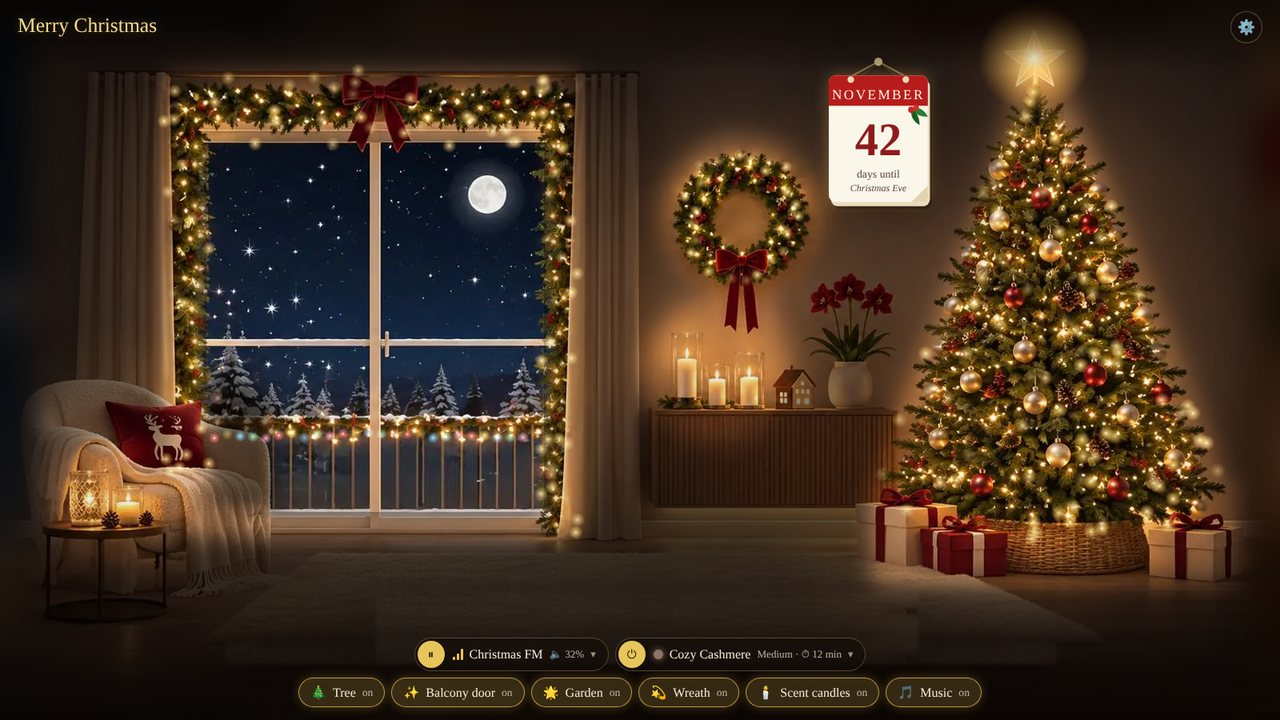
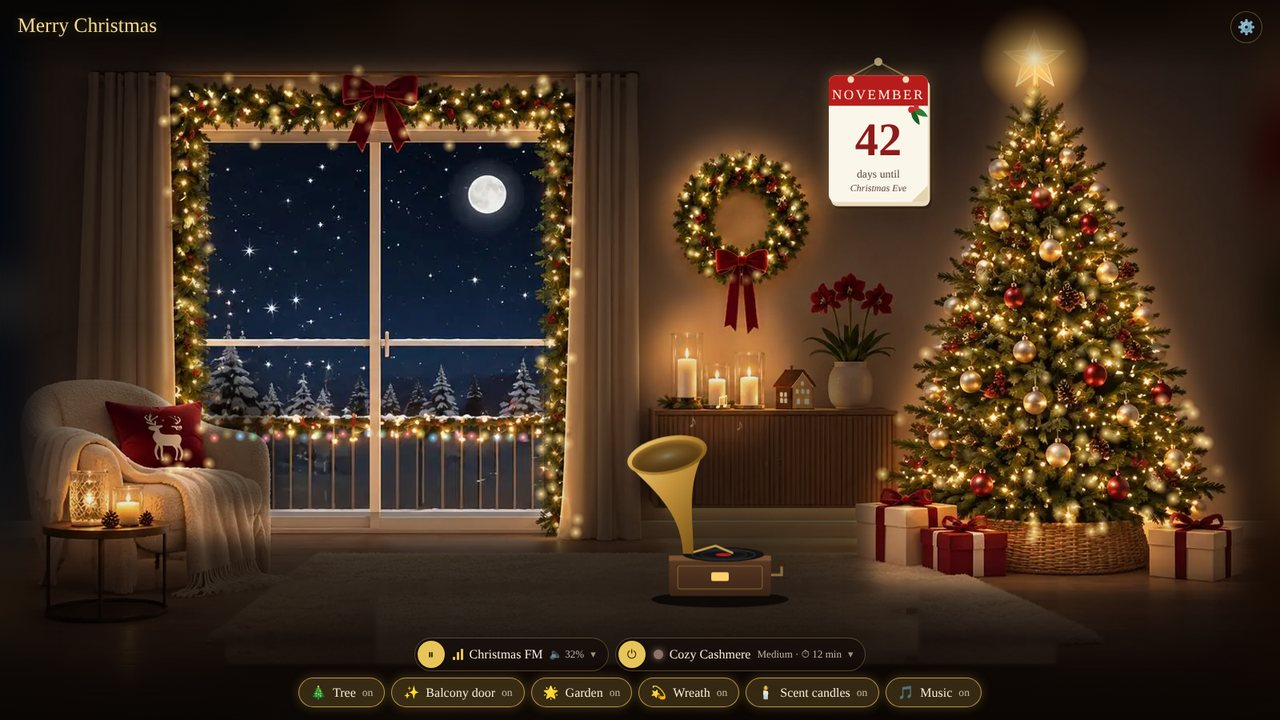
Modern style: gramophone in front of the sideboard
The music object now has its own tappable gramophone in the modern style,
dimmed while off and lit with notes while playing.

Claude-Session: https://claude.ai/code/session_01SdUQZpCtnnLuUWa4TiFC63

Changed region(s): [[0.4688, 0.5806, 0.625, 0.8556]]

diff --git a/christmas-room-card.js b/christmas-room-card.js
@@ -232,6 +232,20 @@ function wzInPoly(x, y, poly) {
   }
   return inside;
 }
+const WZ_GRAM = `
+      <ellipse cx="120" cy="584" rx="78" ry="9" fill="#000" opacity=".45"/>
+      <rect x="62" y="534" width="116" height="46" rx="4" fill="url(#gWood)"/>
+      <rect x="62" y="534" width="116" height="6" fill="#7a5233"/>
+      <rect x="72" y="546" width="96" height="26" rx="3" fill="none" stroke="#c9a24a" stroke-opacity=".45"/>
+      <rect x="110" y="553" width="20" height="10" rx="2" fill="#ffcf6b"/>
+      <path d="M178 556 h12 v-12" stroke="#8a6d3b" stroke-width="3" fill="none"/><circle cx="190" cy="543" r="3.5" fill="#3b2414"/>
+      <ellipse cx="124" cy="533" rx="46" ry="8" fill="#121212"/>
+      <ellipse cx="124" cy="533" rx="36" ry="6" fill="none" stroke="#333"/><ellipse cx="124" cy="533" rx="26" ry="4.4" fill="none" stroke="#2a2a2a"/>
+      <ellipse cx="124" cy="533" rx="9" ry="1.8" fill="#b71c1c"/>
+      <path d="M90 530 L115 523 L134 531" stroke="#c9a24a" stroke-width="2.5" fill="none" stroke-linecap="round"/>
+      <path d="M78 532 C76 482 40 456 15 430 L105 411 C80 452 90 492 90 532 Z" fill="url(#gBrass)"/>
+      <ellipse cx="60" cy="420" rx="46" ry="21" transform="rotate(-12 60 420)" fill="url(#gBrass)"/>
+      <ellipse cx="60" cy="421" rx="41" ry="17" transform="rotate(-12 60 421)" fill="url(#gHornIn)"/>`;
 function wzModernScene(img, calendarSvg) {
   const R = wzRng(1612);
   const pts = (n, fn) => { const out = []; for (let i = 0; i < 4000 && out.length < n; i++) { const p = fn(); if (p) out.push(p); } return out; };
@@ -250,6 +264,9 @@ function wzModernScene(img, calendarSvg) {
       <image id="wzImg" href="${wzEsc(img)}" x="0" y="0" width="1600" height="900" preserveAspectRatio="none"/>
       <radialGradient id="gWarm"><stop offset="0" stop-color="#fff6d6" stop-opacity="1"/><stop offset=".25" stop-color="#ffd27a" stop-opacity=".75"/><stop offset="1" stop-color="#ffb347" stop-opacity="0"/></radialGradient>
       ${GC.map((c, i) => `<radialGradient id="gL${i}"><stop offset="0" stop-color="#fff" stop-opacity=".95"/><stop offset=".3" stop-color="${c}" stop-opacity=".8"/><stop offset="1" stop-color="${c}" stop-opacity="0"/></radialGradient>`).join('')}
+      <linearGradient id="gWood" x1="0" y1="0" x2="0" y2="1"><stop offset="0" stop-color="#5a3a24"/><stop offset="1" stop-color="#3a2416"/></linearGradient>
+      <linearGradient id="gBrass" x1="0" y1="0" x2="1" y2="1"><stop offset="0" stop-color="#f6d986"/><stop offset=".45" stop-color="#c4923a"/><stop offset="1" stop-color="#6e4a12"/></linearGradient>
+      <radialGradient id="gHornIn" cx=".5" cy=".6" r=".6"><stop offset="0" stop-color="#1c1006"/><stop offset=".7" stop-color="#5a3c12"/><stop offset="1" stop-color="#a87a2c"/></radialGradient>
       <radialGradient id="gSpill"><stop offset="0" stop-color="#fff" stop-opacity=".55"/><stop offset="1" stop-color="#fff" stop-opacity="0"/></radialGradient>
       <filter id="fDim" color-interpolation-filters="sRGB">
         <feColorMatrix type="saturate" values="0.72"/>
@@ -276,6 +293,13 @@ function wzModernScene(img, calendarSvg) {
     <g class="lit lit-tree">${im('mask="url(#mTree)"')}</g>
     </g>
     <rect x="0" y="640" width="1600" height="262" fill="url(#gFloorShade)"/>
+    <g transform="translate(768,107) scale(1.1)">
+      <g filter="url(#fDim)">${WZ_GRAM}</g>
+      <g class="lit lit-music">${WZ_GRAM}<ellipse class="hornglow" cx="60" cy="421" rx="38" ry="15" transform="rotate(-12 60 421)" fill="url(#gWarm)"/></g>
+      <text class="note" x="84" y="388" font-size="20" style="animation-delay:0s">♪</text>
+      <text class="note" x="112" y="366" font-size="26" style="animation-delay:.8s">♫</text>
+      <text class="note" x="138" y="392" font-size="18" style="animation-delay:1.6s">♪</text>
+    </g>
     <g>${tree.map((p) => glow('tglow', p, 10)).join('')}${door.map((p) => glow('dglow', p, 9)).join('')}${wreath.map((p) => glow('kglow', p, 8)).join('')}${rail.map((p, i) => glow('gglow', p, 7, 'gL' + (i % GC.length))).join('')}</g>
     <circle class="starglow" cx="1293" cy="72" r="70" fill="url(#gWarm)"/>
     <g transform="translate(${WZM.calendar[0]},${WZM.calendar[1]}) scale(1.72)">${calendarSvg}</g>
@@ -284,7 +308,7 @@ function wzModernScene(img, calendarSvg) {
     <rect class="hit" data-k="garden" x="${ix1}" y="${iy1}" width="${ix2 - ix1}" height="${iy2 - iy1}"/>
     <circle class="hit" data-k="wreath" cx="${wx}" cy="${wy + 20}" r="${wr + 30}"/>
     ${WZM.candles.map(([x, y, rr]) => `<circle class="hit" data-k="candles" cx="${x}" cy="${y}" r="${rr}"/>`).join('')}
-    <rect class="hit" data-k="music" x="960" y="440" width="70" height="80"/>`;
+    <rect class="hit" data-k="music" x="776" y="490" width="214" height="232"/>`;
 }
 
 class ChristmasRoomCard extends HTMLElement {
@@ -777,7 +801,7 @@ class ChristmasRoomCard extends HTMLElement {
   .tin { background:rgba(255,255,255,.06); color:#f5ead8; border:1px solid rgba(243,217,139,.3); border-radius:10px; padding:7px 10px; font:inherit; color-scheme:dark; }
   .tile.rnd { border-style:dashed; }
   .modern .lit { opacity:0; transition:opacity 1.1s ease; }
-  .tree-on .lit-tree, .door-on .lit-door, .garden-on .lit-garden, .wreath-on .lit-wreath { opacity:1; }
+  .tree-on .lit-tree, .door-on .lit-door, .garden-on .lit-garden, .wreath-on .lit-wreath, .music-on .lit-music { opacity:1; }
   .candles-on .lit-candles { opacity:1; animation: cflick 2.1s ease-in-out infinite; }
   .modern .tglow, .modern .dglow, .modern .kglow, .modern .gglow { mix-blend-mode:screen; }
   .tthumb { width:30px; height:30px; border-radius:7px; object-fit:cover; display:block; }
